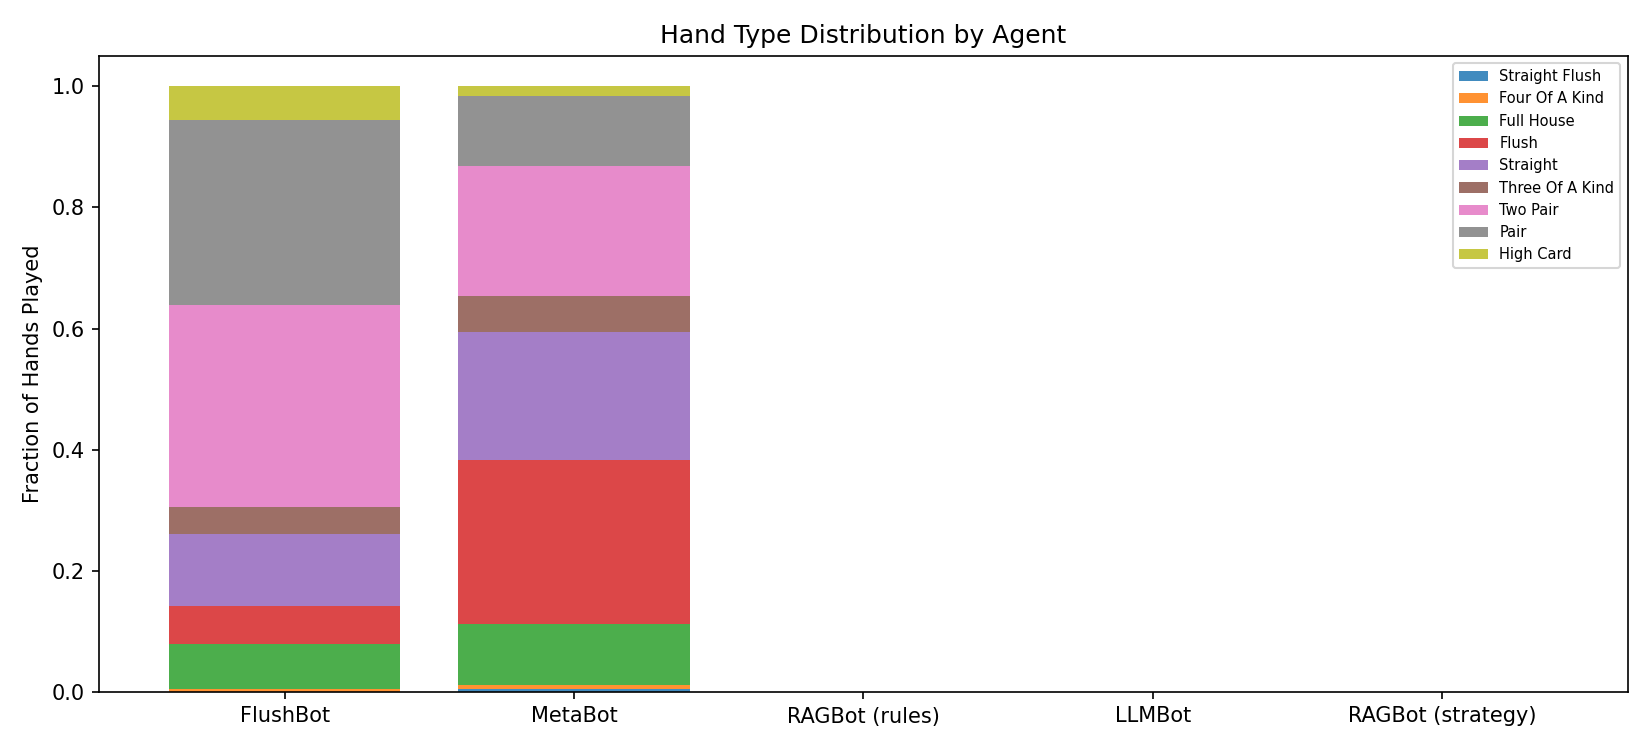
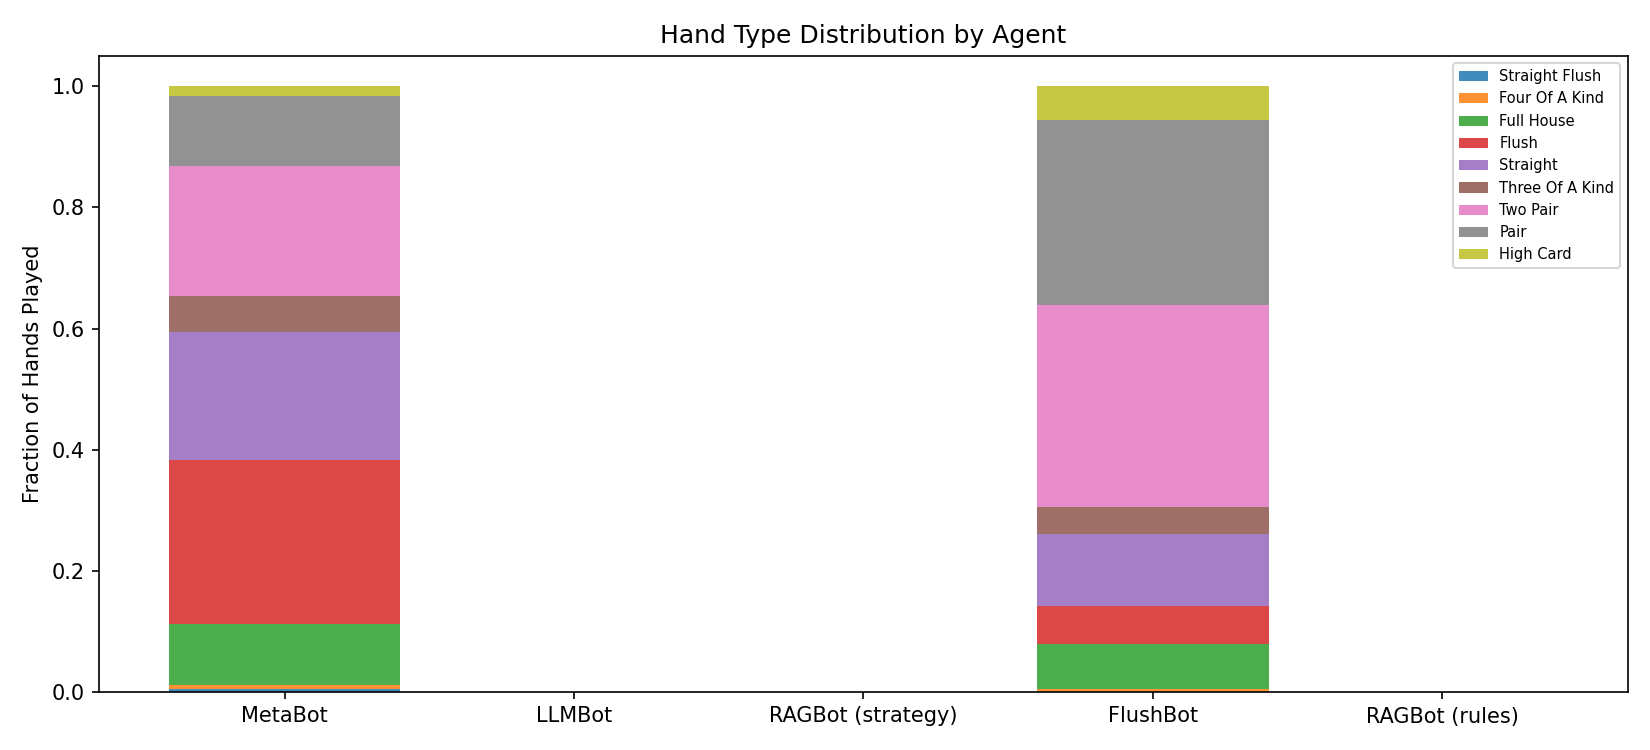
tweaked code and analysis tables

diff --git a/analyze_results.py b/analyze_results.py
@@ -37,12 +37,14 @@ except ImportError:
 # ---------------------------------------------------------------------------
 
 BOT_ORDER = [
-    "flush_bot",
     "meta_bot",
-    "rag_llm_bot",
     "llm_bot",
     "rag_meta_bot",
+    "flush_bot",
+    "rag_llm_bot",
 ]
+
+PRIMARY_BOTS = ["meta_bot", "llm_bot", "rag_meta_bot"]
 
 BOT_COLORS = {
     "flush_bot":   "#636EFA",
@@ -132,9 +134,6 @@ def compute_summary(df: pd.DataFrame) -> pd.DataFrame:
 
 
 def print_summary_table(summary: pd.DataFrame):
-    print("=" * 70)
-    print("RESULTS SUMMARY")
-    print("=" * 70)
     key_cols = [
         "bot_type","n_games",
         "final_ante_mean","final_ante_std",
@@ -145,14 +144,29 @@ def print_summary_table(summary: pd.DataFrame):
         "won_mean",
     ]
     cols = [c for c in key_cols if c in summary.columns]
-    print(summary[cols].to_string(index=False))
+
+    print("=" * 70)
+    print("PRIMARY RESULTS (MetaBot vs LLMBot vs RAGBot strategy)")
+    print("=" * 70)
+    primary = summary[summary["bot_type"].isin(PRIMARY_BOTS)]
+    print(primary[cols].to_string(index=False))
+    print()
+
+    print("=" * 70)
+    print("SECONDARY / ABLATION AGENTS")
+    print("=" * 70)
+    secondary = summary[~summary["bot_type"].isin(PRIMARY_BOTS)]
+    if not secondary.empty:
+        print(secondary[cols].to_string(index=False))
     print()
 
 
 def significance_tests(df: pd.DataFrame, metric: str = "final_ante"):
-    bots = [b for b in BOT_ORDER if b in df["bot_type"].unique()]
-    print(f"Pairwise Mann-Whitney U tests: {metric}")
+    primary  = [b for b in PRIMARY_BOTS if b in df["bot_type"].unique()]
+    all_bots = [b for b in BOT_ORDER if b in df["bot_type"].unique()]
+    print(f"Pairwise Mann-Whitney U tests (primary agents): {metric}")
     print("-" * 50)
+    bots = primary
     for i, b1 in enumerate(bots):
         for b2 in bots[i+1:]:
             g1 = df[df["bot_type"] == b1][metric].dropna()
